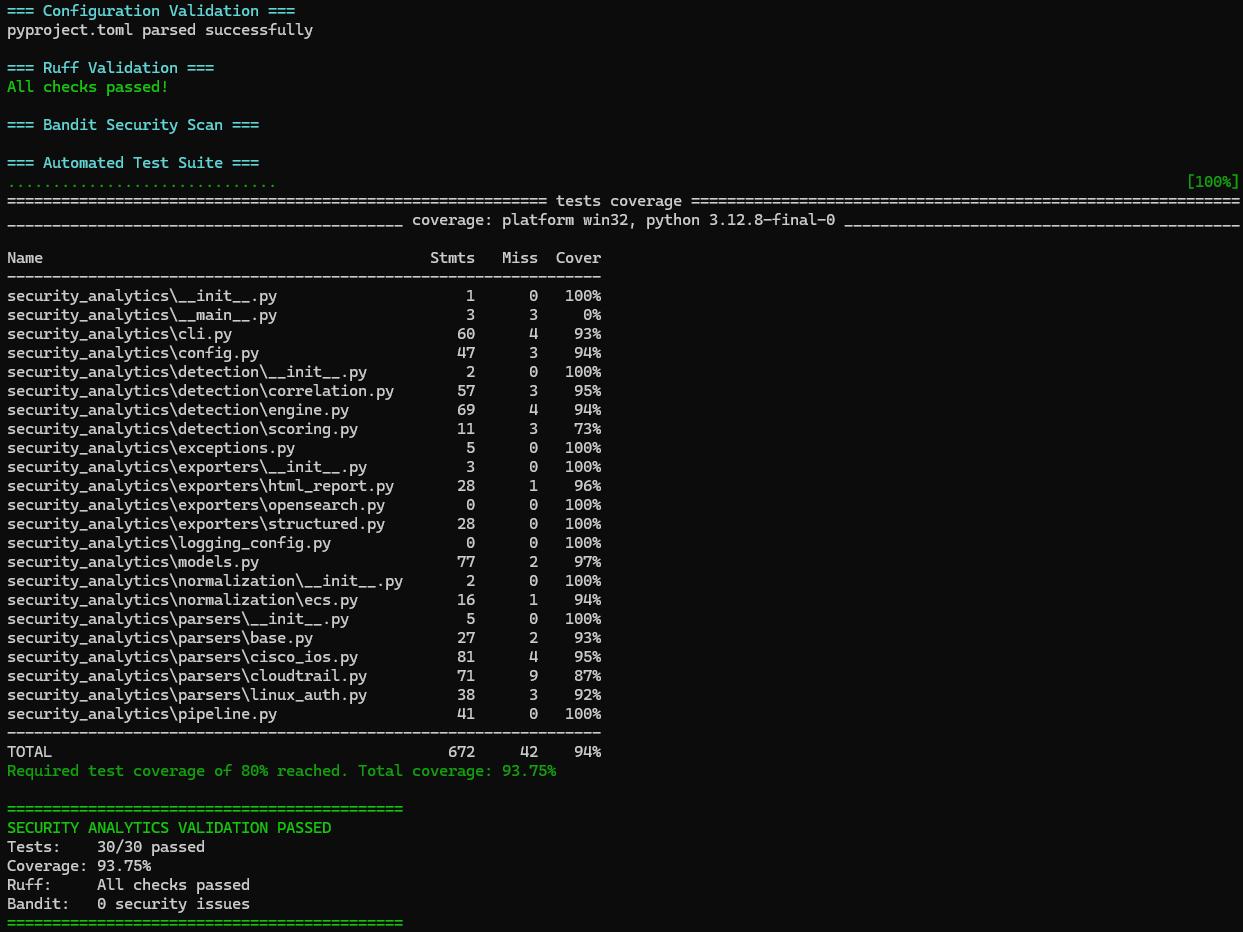
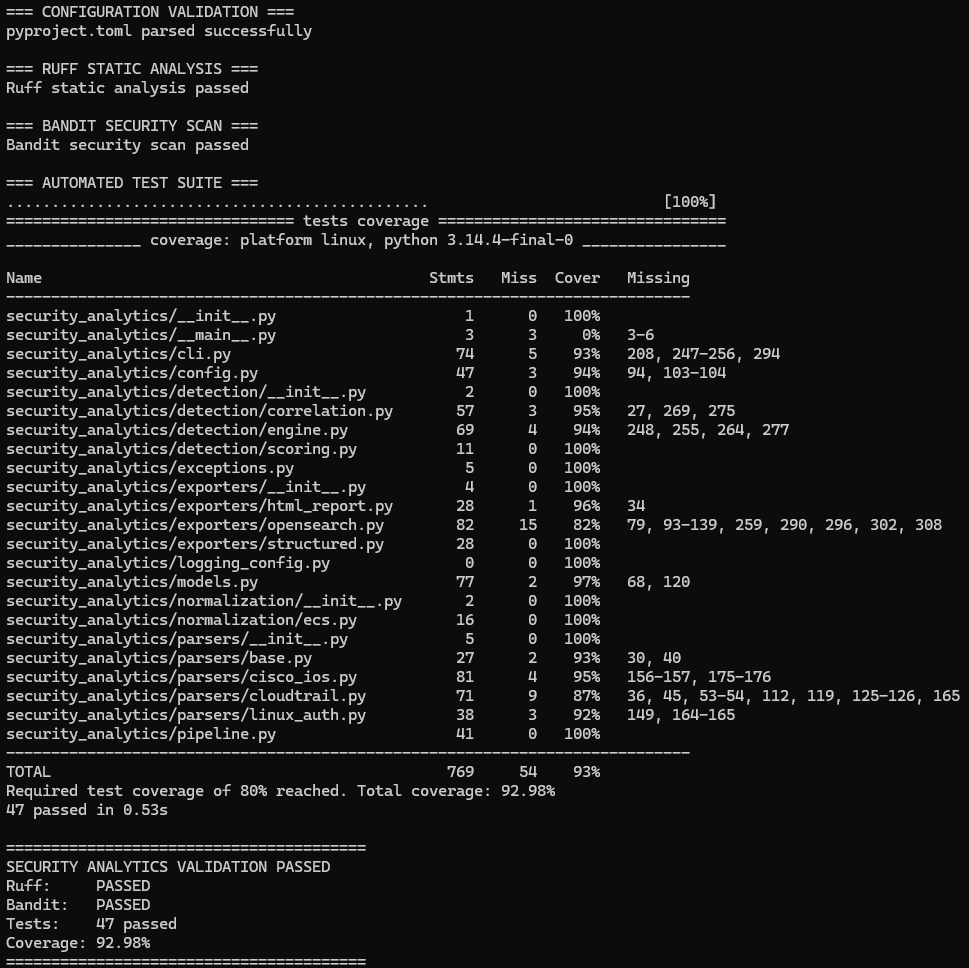
docs: finalize architecture and execution evidence

diff --git a/README.md b/README.md
@@ -14,7 +14,8 @@ Linux authentication logs, and Cisco IOS infrastructure telemetry.
 The project demonstrates practical security engineering concepts commonly used
 in cloud infrastructure monitoring, detection engineering, and SIEM pipelines.
 
-## Table of Contents
+<details>
+<summary><strong>Table of Contents</strong></summary>
 
 - [Why It Matters](#why-it-matters)
 - [Engineering Ownership](#engineering-ownership)
@@ -35,6 +36,8 @@ in cloud infrastructure monitoring, detection engineering, and SIEM pipelines.
 - [Current Limitations](#current-limitations)
 - [Roadmap](#roadmap)
 - [License](#license)
+
+</details>
 
 ## Why It Matters
 
@@ -64,7 +67,9 @@ related activity, and exports investigation-ready reports.
 
 ![Infrastructure Security Analytics Architecture](docs/evidence/00-architecture-overview.svg)
 
-The diagram shows the runtime event flow from infrastructure telemetry through parsing, normalization, detection, scoring, correlation, and reporting. Detailed processing stages and design decisions are documented in [docs/architecture.md](docs/architecture.md). The editable Graphviz source is available in [docs/diagrams/architecture.dot](docs/diagrams/architecture.dot).
+The diagram separates the runtime analytics pipeline from the cross-cutting validation and delivery controls. The dashed assurance layer is not part of the runtime event flow.
+
+Detailed architecture and design decisions are documented in [docs/architecture.md](docs/architecture.md).
 
 ## Key Capabilities
 
@@ -154,38 +159,21 @@ The following evidence was generated from the included synthetic telemetry and t
 
 ![Live OpenSearch Indexing Validation](docs/evidence/07-opensearch-live-validation.png)
 
-<details>
-<summary><strong>Linux correlation alert</strong></summary>
-
-<br>
+### Linux Correlation Alert
 
 ![Linux Correlation Alert](docs/evidence/03-linux-correlation-alert.png)
 
-</details>
-
-<details>
-<summary><strong>Cisco IOS detection</strong></summary>
-
-<br>
+### Cisco IOS Detection
 
 ![Cisco IOS Detection](docs/evidence/04-cisco-detection.png)
 
-</details>
-
-<details>
-<summary><strong>Automated validation and CLI execution evidence</strong></summary>
-
-<br>
-
-#### Automated Validation
+### Automated Validation
 
 ![Automated Validation Results](docs/evidence/05-automated-validation.png)
 
-#### CLI Analysis Results
+### CLI Analysis Results
 
 ![CLI Analysis Results](docs/evidence/06-cli-analysis-results.png)
-
-</details>
 
 ## Quick Start
 
@@ -351,10 +339,16 @@ Detailed implementation decisions and trade-offs are documented in [`docs/engine
 
 ```text
 .
-├── .github/workflows/
+├── .github/
+│   └── workflows/
+│       └── ci.yml
 ├── config/
+│   └── detection_rules.yml
 ├── docs/
 │   ├── architecture.md
+│   ├── engineering-notes.md
+│   ├── diagrams/
+│   │   └── architecture.dot
 │   └── evidence/
 ├── reports/
 ├── samples/

diff --git a/docs/architecture.md b/docs/architecture.md
@@ -9,52 +9,11 @@ and generates structured security reports.
 
 ## Architecture Diagram
 
-```mermaid
-flowchart LR
-    subgraph Sources["Infrastructure Log Sources"]
-        AWS["AWS CloudTrail<br/>JSON Lines"]
-        Linux["Linux Authentication Logs<br/>Syslog"]
-        Cisco["Cisco IOS Security Logs<br/>Syslog"]
-    end
+![Infrastructure Security Analytics Architecture](evidence/00-architecture-overview.svg)
 
-    subgraph Ingestion["Ingestion and Parsing"]
-        CloudTrailParser["CloudTrail Parser"]
-        LinuxParser["Linux Authentication Parser"]
-        CiscoParser["Cisco IOS Parser"]
-    end
+The runtime analytics path processes infrastructure telemetry through source-specific parsing, ECS-inspired normalization, deterministic detection, risk scoring, cross-source correlation, and reporting.
 
-    subgraph Analytics["Security Analytics Pipeline"]
-        Normalization["ECS-Style Normalization"]
-        Detection["Rule-Based Detection Engine"]
-        Scoring["Risk Scoring and Severity Classification"]
-        Correlation["Cross-Source Event Correlation"]
-    end
-
-    subgraph Outputs["Reporting and Integration"]
-        HTML["HTML Security Report"]
-        JSON["Structured JSON"]
-        CSV["Security Alerts CSV"]
-        OpenSearch["OpenSearch Export"]
-    end
-
-    AWS --> CloudTrailParser
-    Linux --> LinuxParser
-    Cisco --> CiscoParser
-
-    CloudTrailParser --> Normalization
-    LinuxParser --> Normalization
-    CiscoParser --> Normalization
-
-    Normalization --> Detection
-    Detection --> Scoring
-    Scoring --> Correlation
-
-    Correlation --> HTML
-    Correlation --> JSON
-    Correlation --> CSV
-    Correlation --> OpenSearch
-
-```
+The dashed assurance layer represents repository validation and delivery controls. It is not part of the runtime event flow.
 
 ## Processing Stages
 
@@ -134,8 +93,8 @@ evidence is maintained under `docs/evidence/`.
 
 The project currently validates:
 
-- 40 automated tests
-- 94.20% statement coverage
+- 47 automated tests
+- 92.98% statement coverage
 - 100% risk-scoring boundary coverage
 - Ruff static analysis
 - Bandit security scanning
